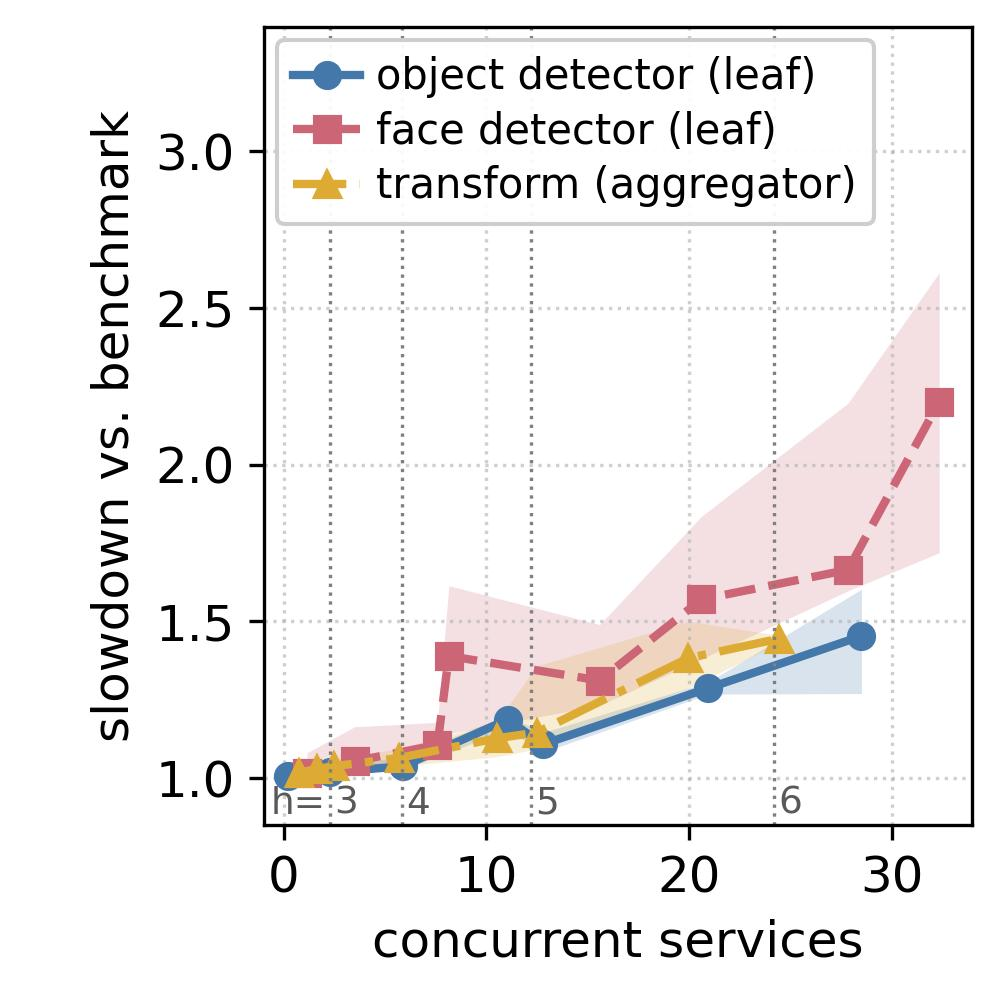
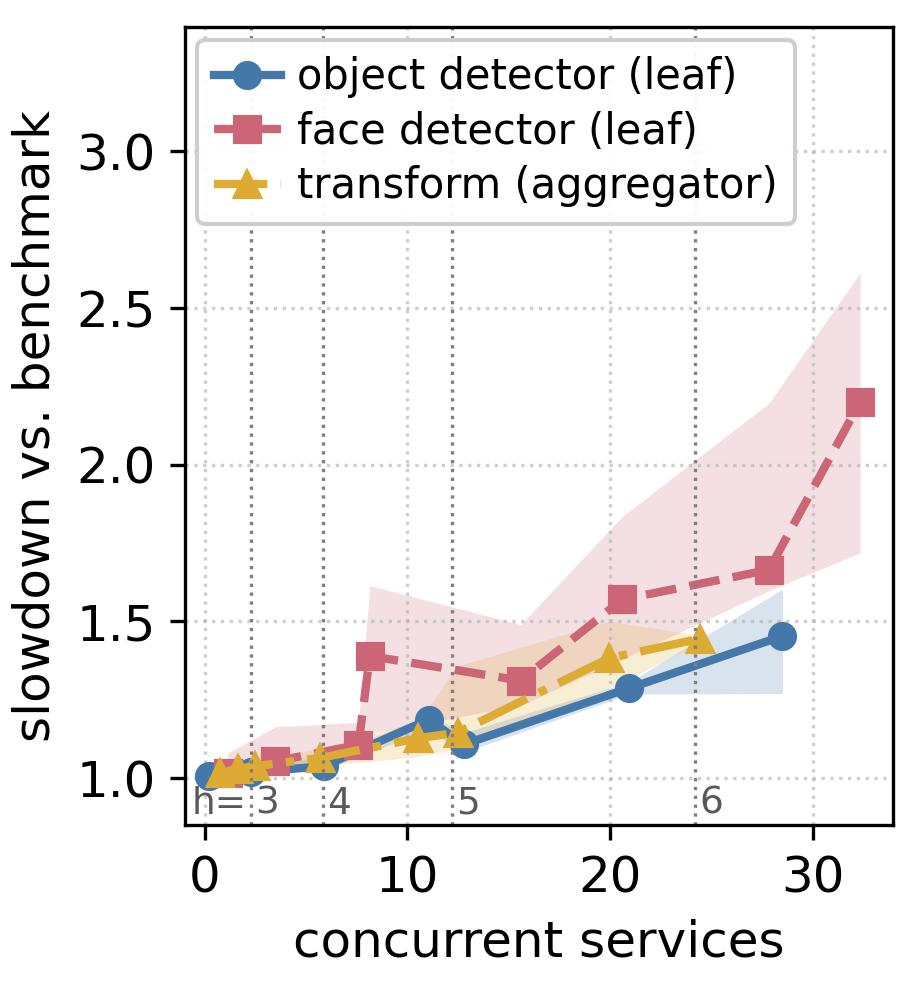
decrease margin

diff --git a/notebooks/tsc/pegasus/figures.py b/notebooks/tsc/pegasus/figures.py
@@ -211,6 +211,21 @@ def fit_half_pair(axes: list) -> None:
         ax.set_position((left / width, MARGIN_BOTTOM / height, plot_width / width, 1 - (MARGIN_BOTTOM + MARGIN_TOP) / height))
 
 
+def fit_left_margin(ax) -> None:
+    """Shrink the left margin of a single figure (paper_figure or half_figure) to the width of the labels of its vertical
+    axis, keeping the plot area exactly as wide and as high as before, so the figure becomes narrower by the empty strip.
+    Call when the vertical axis is complete."""
+    fig = ax.figure
+    fig.canvas.draw()
+    labels = ax.yaxis.get_tightbbox(fig.canvas.get_renderer())   # tick labels and axis label, in pixels
+    left = (ax.bbox.x0 - labels.x0) / fig.dpi + 0.02             # 0.02 in so that the axis label does not touch the border
+    width, height = fig.get_size_inches()
+    plot_width = ax.bbox.width / fig.dpi
+    new_width = left + plot_width + MARGIN_RIGHT
+    fig.set_size_inches(new_width, height)
+    ax.set_position((left / new_width, MARGIN_BOTTOM / height, plot_width / new_width, 1 - (MARGIN_BOTTOM + MARGIN_TOP) / height))
+
+
 def fit_x_tick_labels(ax) -> None:
     """Widen a linear horizontal axis until its first and last tick labels lie inside the figure: a long label at the
     end of the axis (e.g. "heaviest (2.35)") would otherwise reach beyond the fixed margins and be cut off."""

diff --git a/notebooks/tsc/pegasus/evaluation.py b/notebooks/tsc/pegasus/evaluation.py
@@ -917,7 +917,7 @@ def slowdown_figure(slowdowns, height_marks: dict = None, name: str = None, mark
     mark_prefix: written once, left of the first vertical line (e.g. "h=" before the labels "3", "4", ...), because the
     lines stand too close in the half-width panel for a prefix in every label."""
     from matplotlib.lines import Line2D
-    from .figures import BAND_ALPHA, half_figure, legend_inside, paper_style, save_figure
+    from .figures import BAND_ALPHA, fit_left_margin, half_figure, legend_inside, paper_style, save_figure
     table = slowdown_bins(slowdowns)
     with paper_style():
         fig, ax = half_figure("left")
@@ -952,6 +952,7 @@ def slowdown_figure(slowdowns, height_marks: dict = None, name: str = None, mark
         # a narrower legend (shorter handles, one column) for the half-width panel, in the font size of the full-width figures
         legend_inside(ax, handles, labels, segments, locations=("upper left", "upper center"), max_doublings=0, ncol=1, fontsize=10,
                       framealpha=0.95, handlelength=1.6, handletextpad=0.4, labelspacing=0.3, borderaxespad=0.3)
+        fit_left_margin(ax)   # short tick labels leave an empty strip in the fixed left margin
         if name is not None:
             save_figure(fig, name)
         plt.show()
